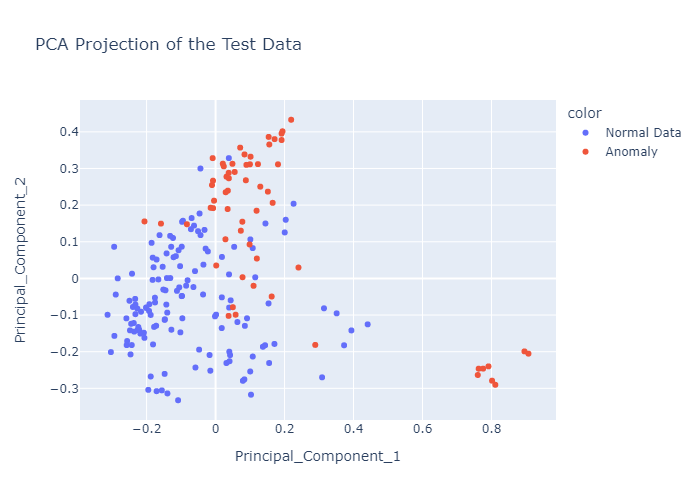
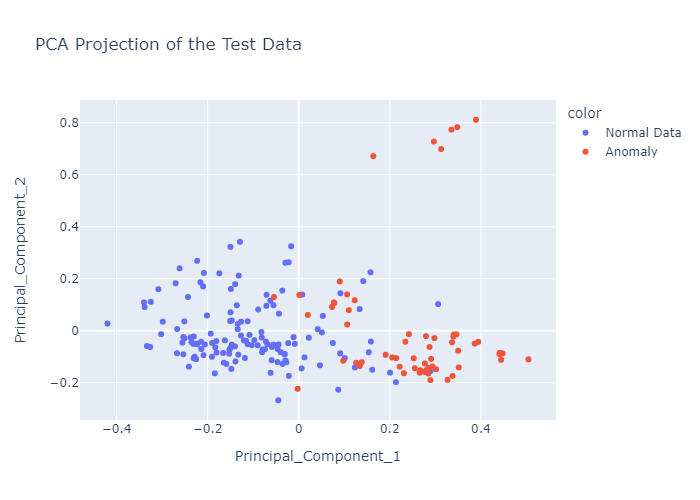
add PCA visualize after training

diff --git a/templates/evaluate_qvc.html b/templates/evaluate_qvc.html
@@ -13,7 +13,7 @@
 
 	<div class="inner-window" >
 		<div class="pqc-cont">
-			<p class="pqc-cont-text">Parametrized Quantum Circuits</p>
+			<p class="pqc-cont-text" style="border-top: none">Parametrized Quantum Circuits</p>
 			<div class="pqc-row" style="border-bottom: solid; padding-bottom: 20px">
 				<div class="pqc-row-elem" 
 					style="
@@ -98,8 +98,12 @@
 				</div>
 				<div style="display:none;" id="eval_data_cont" >
 					<br><br><br>
-					<p style="text-align: center; font-weight: bold; font-size: 20px" id="eval_started">Evaluation Started...</p>
-					<img src="/static/eval/scatter/blank.png" id="eval_data_im" style="width: 80%">
+					<p style="text-align: center; font-weight: bold; font-size: 20px" id="eval_started">
+						Evaluation Started...
+						<div class="lds-roller"><div></div><div></div><div></div><div></div><div></div><div></div><div></div><div></div></div>
+					</p>
+
+					<img src="/static/eval/scatter/blank.png" id="eval_data_im" style="width: 95%">
 				</div>
 
 			</div>
@@ -110,6 +114,7 @@
 
 <script>
 	let selectedPQC = 1;
+	let evalStarted = false;
 	$("#KL_div")[0].innerText = "KL Divergence: {{ SIM_expr1 }}";
 	$("#MW")[0].innerText = "Entangling Capacity: {{ MW_measure1 }}";
 
@@ -271,6 +276,7 @@
 
 						$("#eval_started")[0].style.display = "none";
 						$("#result-block")[0].style.display = "block";
+						$("#eval_data_im")[0].src = "/static/eval/scatter/QVC_" + nSamples.value + "_after_training.png";
 
 					}
 				});
@@ -279,35 +285,41 @@
 
 
 	function selectBinaryFile(filename, el) {
-		$.ajax("/evaluate/metric?n_samples=" + nSamples.value + "&model=QVC&filename="+ filename +"&is_binary=True&pqc=" + selectedPQC).done((response)=>{
-			$("#eval_data_cont")[0].style.display = "block";
-			$("#eval_data_im")[0].src = "/static/eval/scatter/QVC_" + nSamples.value + ".png";
-			el.style.backgroundColor = "rgb(40, 61, 94)";
-			el.style.color = "rgba(248, 232, 250, 1)";
+		if (!evalStarted) {
+			$.ajax("/evaluate/metric?n_samples=" + nSamples.value + "&model=QVC&filename="+ filename +"&is_binary=True&pqc=" + selectedPQC).done((response)=>{
+				$("#eval_data_cont")[0].style.display = "block";
+				$("#eval_data_im")[0].src = "/static/eval/scatter/QVC_" + nSamples.value + ".png";
+				el.style.backgroundColor = "rgb(40, 61, 94)";
+				el.style.color = "rgba(248, 232, 250, 1)";
 
-			const checkInterval = setInterval(() => {
-		  		checkStatus(response["id"]);
-		  		if (success) {
-		  			clearInterval(checkInterval);
-		  		};
-		  	} ,1500);
-		})
+				const checkInterval = setInterval(() => {
+			  		checkStatus(response["id"]);
+			  		if (success) {
+			  			clearInterval(checkInterval);
+			  		};
+			  	} ,1500);
+			  	evalStarted = true;
+			});
+		}
 	}
 
 	function selectMultiFile(filename, el) {
-		$.ajax("/evaluate/metric?n_samples=" + nSamples.value + "&model=QVC&filename="+ filename +"&is_binary=False").done((response)=>{
-			$("#eval_data_cont")[0].style.display = "block";
-			$("#eval_data_im")[0].src = "/static/eval/scatter/QVC_" + nSamples.value + ".png";
-			el.style.backgroundColor = "rgb(40, 61, 94)";
-			el.style.color = "rgba(248, 232, 250, 1)";
+		if (!evalStarted) {
+			$.ajax("/evaluate/metric?n_samples=" + nSamples.value + "&model=QVC&filename="+ filename +"&is_binary=False").done((response)=>{
+				$("#eval_data_cont")[0].style.display = "block";
+				$("#eval_data_im")[0].src = "/static/eval/scatter/QVC_" + nSamples.value + ".png";
+				el.style.backgroundColor = "rgb(40, 61, 94)";
+				el.style.color = "rgba(248, 232, 250, 1)";
 
-			const checkInterval = setInterval(() => {
-		  		checkStatus(response["id"]);
-		  		if (success) {
-		  			clearInterval(checkInterval);
-		  		};
-		  	} ,1500);
-		})
+				const checkInterval = setInterval(() => {
+			  		checkStatus(response["id"]);
+			  		if (success) {
+			  			clearInterval(checkInterval);
+			  		};
+			  	} ,1500);
+			  	evalStarted = true;
+			});
+		}
 	}
 
 </script>

diff --git a/templates/evaluate_hae.html b/templates/evaluate_hae.html
@@ -14,7 +14,7 @@
 	<div class="inner-window">
 		
 		<div class="pqc-cont">
-			<p class="pqc-cont-text">Parametrized Quantum Circuits</p>
+			<p class="pqc-cont-text" style="border-top: none">Parametrized Quantum Circuits</p>
 			<div class="pqc-row" style="border-bottom: solid; padding-bottom: 20px">
 				<div class="pqc-row-elem" 
 					style="
@@ -33,7 +33,7 @@
 				<div class="pqc-row-elem" onclick="changeSelectedPQC(9)">PQC9</div>
 			</div>
 
-			<div style="display: inline-block; width: 50%; border-right: solid;">
+			<div style="display: inline-block; width: 50%; border-right: solid; padding-bottom: 50px;">
 				<div style="text-align: left;">
 					<img style="width: 100%" src="/static/train_hae/pqc1.png" id="qc_image">
 				</div>
@@ -95,8 +95,11 @@
 				</div>
 				<div style="display:none;" id="eval_data_cont" >
 					<br><br><br>
-					<p style="text-align: center; font-weight: bold; font-size: 20px" id="eval_started">Evaluation Started...</p>
-					<img src="/static/eval/scatter/blank.png" id="eval_data_im" style="width: 80%">
+					<p style="text-align: center; font-weight: bold; font-size: 20px" id="eval_started">
+						Evaluation Started...
+						<div class="lds-roller"><div></div><div></div><div></div><div></div><div></div><div></div><div></div><div></div></div>
+					</p>
+					<img src="/static/eval/scatter/blank.png" id="eval_data_im" style="width: 95%">
 				</div>
 
 			</div>
@@ -107,6 +110,7 @@
 
 <script>
 	let selectedPQC = 1;
+	let evalStarted = false;
 	$("#KL_div")[0].innerText = "KL Divergence: {{ SIM_expr1 }}";
 	$("#MW")[0].innerText = "Entangling Capacity: {{ MW_measure1 }}";
 
@@ -192,6 +196,12 @@
 	}
 	listFiles(selectedPQC);
 
+	const nSamples = document.getElementById('nSamples');
+	nSamples.addEventListener('change', updateValueNS);
+	function updateValueNS(e) {
+	  $("#nSamplesText")[0].innerText = "Number of Training Data Points: " + e.target.value;
+	}
+
 	function listFiles (pqc) {
 		let files = FILES["FILES" + pqc];
 		files = files.split("&quot;");
@@ -234,6 +244,7 @@
 
 						$("#eval_started")[0].style.display = "none";
 						$("#result-block")[0].style.display = "block";
+						$("#eval_data_im")[0].src = "/static/eval/scatter/HAE_" + nSamples.value + "_after_training.png";
 
 					}
 				});
@@ -242,19 +253,23 @@
 
 
 	function selectFile(filename, el) {
-		$.ajax("/evaluate/metric?n_samples=" + nSamples.value + "&model=HAE&filename="+ filename +"&pqc=" + selectedPQC).done((response)=>{
+		if (!evalStarted) {
 			$("#eval_data_cont")[0].style.display = "block";
-			$("#eval_data_im")[0].src = "/static/eval/scatter/HAE_" + nSamples.value + ".png";
-			el.style.backgroundColor = "rgb(40, 61, 94)";
-			el.style.color = "rgba(248, 232, 250, 1)";
+			$.ajax("/evaluate/metric?n_samples=" + nSamples.value + "&model=HAE&filename="+ filename +"&pqc=" + selectedPQC).done((response)=>{
+				$("#eval_data_cont")[0].style.display = "block";
+				$("#eval_data_im")[0].src = "/static/eval/scatter/HAE_" + nSamples.value + ".png";
+				el.style.backgroundColor = "rgb(40, 61, 94)";
+				el.style.color = "rgba(248, 232, 250, 1)";
 
-			const checkInterval = setInterval(() => {
-		  		checkStatus(response["id"]);
-		  		if (success) {
-		  			clearInterval(checkInterval);
-		  		};
-		  	} ,1500);
-		})
+				const checkInterval = setInterval(() => {
+			  		checkStatus(response["id"]);
+			  		if (success) {
+			  			clearInterval(checkInterval);
+			  		};
+			  	} ,1500);
+			  	evalStarted = true;
+			});
+		}
 	}
 
 </script>

diff --git a/static/style/style.css b/static/style/style.css
@@ -313,3 +313,89 @@
     color:  rgba(248, 232, 250, 1);
 }
 
+
+.lds-roller {
+  display: inline-block;
+  position: relative;
+  width: 80px;
+  height: 80px;
+}
+.lds-roller div {
+  animation: lds-roller 1.2s cubic-bezier(0.5, 0, 0.5, 1) infinite;
+  transform-origin: 40px 40px;
+}
+.lds-roller div:after {
+  content: " ";
+  display: block;
+  position: absolute;
+  width: 7px;
+  height: 7px;
+  border-radius: 50%;
+  background: #fff;
+  margin: -4px 0 0 -4px;
+}
+.lds-roller div:nth-child(1) {
+  animation-delay: -0.036s;
+}
+.lds-roller div:nth-child(1):after {
+  top: 63px;
+  left: 63px;
+}
+.lds-roller div:nth-child(2) {
+  animation-delay: -0.072s;
+}
+.lds-roller div:nth-child(2):after {
+  top: 68px;
+  left: 56px;
+}
+.lds-roller div:nth-child(3) {
+  animation-delay: -0.108s;
+}
+.lds-roller div:nth-child(3):after {
+  top: 71px;
+  left: 48px;
+}
+.lds-roller div:nth-child(4) {
+  animation-delay: -0.144s;
+}
+.lds-roller div:nth-child(4):after {
+  top: 72px;
+  left: 40px;
+}
+.lds-roller div:nth-child(5) {
+  animation-delay: -0.18s;
+}
+.lds-roller div:nth-child(5):after {
+  top: 71px;
+  left: 32px;
+}
+.lds-roller div:nth-child(6) {
+  animation-delay: -0.216s;
+}
+.lds-roller div:nth-child(6):after {
+  top: 68px;
+  left: 24px;
+}
+.lds-roller div:nth-child(7) {
+  animation-delay: -0.252s;
+}
+.lds-roller div:nth-child(7):after {
+  top: 63px;
+  left: 17px;
+}
+.lds-roller div:nth-child(8) {
+  animation-delay: -0.288s;
+}
+.lds-roller div:nth-child(8):after {
+  top: 56px;
+  left: 12px;
+}
+@keyframes lds-roller {
+  0% {
+    transform: rotate(0deg);
+  }
+  100% {
+    transform: rotate(360deg);
+  }
+}
+

diff --git a/evaluate/tasks.py b/evaluate/tasks.py
@@ -9,10 +9,11 @@ import sys
 sys.path.append(os.path.join(dirname, '../../HAE/modules/'))
 from metrics.metrics import get_scores
 from metrics.predict import predict_HAE, predict_classical, predict_QVC
+from preprocessing.visualize import plot_PCA_2D
 
 
 @shared_task()
-def test_model_task(job, test_data, test_labels):
+def test_model_task(job, test_data, test_labels, path_save=""):
 	model = job["model"]
 	pqc = int(job["pqc"])
 	n_samples = int(job["n_samples"])
@@ -23,8 +24,7 @@ def test_model_task(job, test_data, test_labels):
 		predict, labels = predict_HAE(qc_index=pqc, path=test_job.result_path, test_data=test_data, test_labels=test_labels)
 	elif model == "QVC":
 		predict, labels = predict_QVC(qc_index=pqc, path=test_job.result_path, test_data=test_data, test_labels=test_labels)
-		print(predict)
-	
+
 	f1, precision, recall = get_scores(predict, labels)
 	f1_cl, precision_cl, recall_cl = get_scores(predict_cl, labels_cl)
 
@@ -38,5 +38,15 @@ def test_model_task(job, test_data, test_labels):
 
 	test_job.status = "completed"
 	test_job.save()
+
+	if path_save:
+		labels = np.array(labels)
+		predict = np.array(predict)
+		correctly_discovered_anomalies = np.where((labels == predict) & (labels==-1))
+		wrongly_discovered_anomalies = np.where((labels != predict) & (labels==1))
+
+		labels[correctly_discovered_anomalies] = 2
+		labels[wrongly_discovered_anomalies] = -2
+		plot_PCA_2D(test_data=test_data, test_labels=labels, path_save=path_save)
 
     

diff --git a/evaluate/views.py b/evaluate/views.py
@@ -21,6 +21,12 @@ def evaluate_metric(request):
     test_data, test_labels = sample_test_data(n_samples, True)
     model = request.GET["model"]
     qvc_inner_path = "/binary_cl" if is_binary else "/multi_cl"
+    path_save = os.path.join(dirname, f"../static/eval/scatter/{model}_{n_samples}.png")
+    path_save_after_training = os.path.join(dirname, f"../static/eval/scatter/{model}_{n_samples}_after_training.png")
+    
+    test_data_copy = test_data.copy()
+    test_labels_copy = test_labels.copy()
+    plot_PCA_2D(test_data=test_data_copy, test_labels=test_labels_copy, path_save=path_save)
 
     job = TestJob.objects.create(
         model=model,
@@ -29,12 +35,7 @@ def evaluate_metric(request):
         pqc=pqc,
         result_path=os.path.join(dirname, f"../../HAE/data/training_results{'_QVC' if model=='QVC' else ''}/pqc{pqc}{qvc_inner_path if model=='QVC' else ''}/{filename}"),
         )
-    test_model_task.delay(model_to_dict(job), test_data=test_data, test_labels=test_labels)
-
-    test_data_copy = test_data.copy()
-    test_labels_copy = test_labels.copy()
-    fig = plot_PCA_2D(test_data=test_data_copy, test_labels=test_labels_copy, path_save=os.path.join(dirname, f"../static/eval/scatter/{model}_{n_samples}.png"))
-
+    test_model_task.delay(model_to_dict(job), test_data=test_data, test_labels=test_labels, path_save=path_save_after_training)
 
     return JsonResponse(model_to_dict(job))
 
